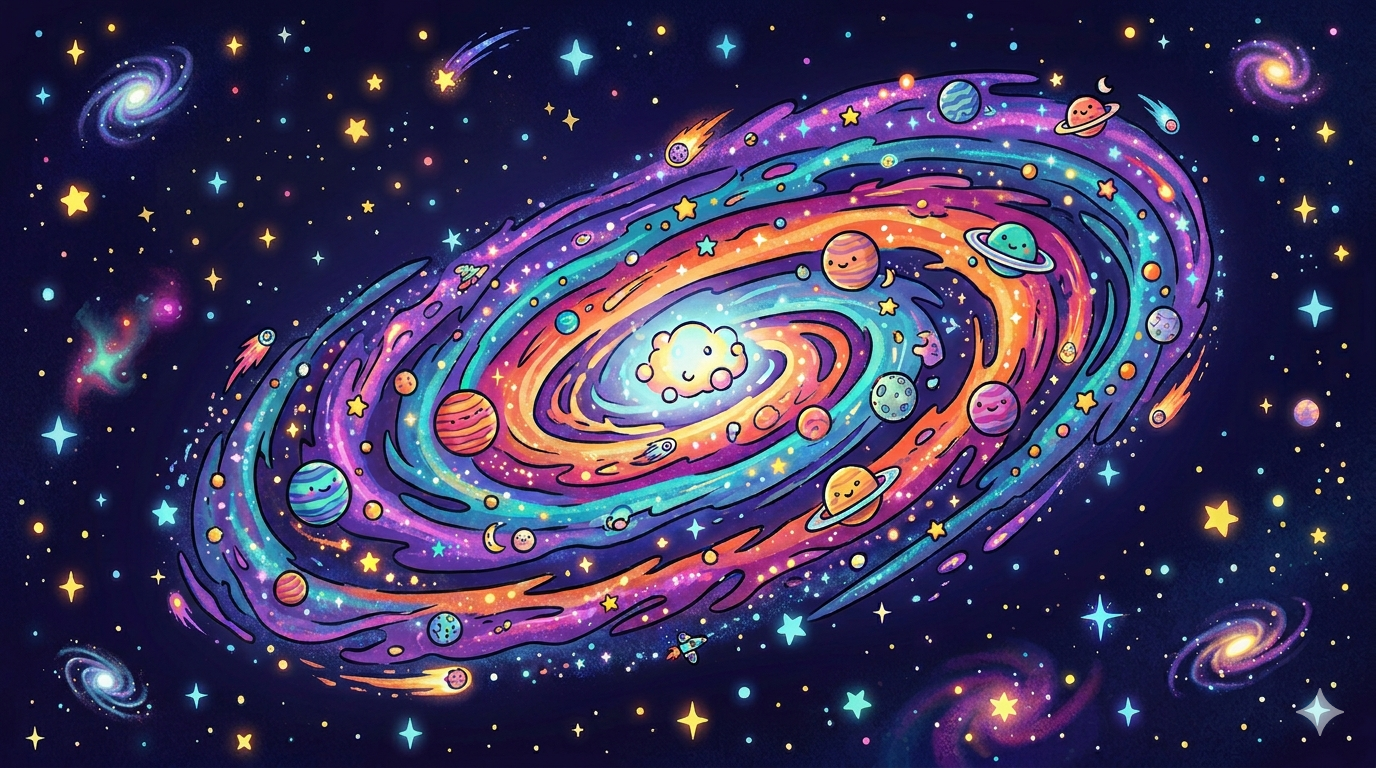
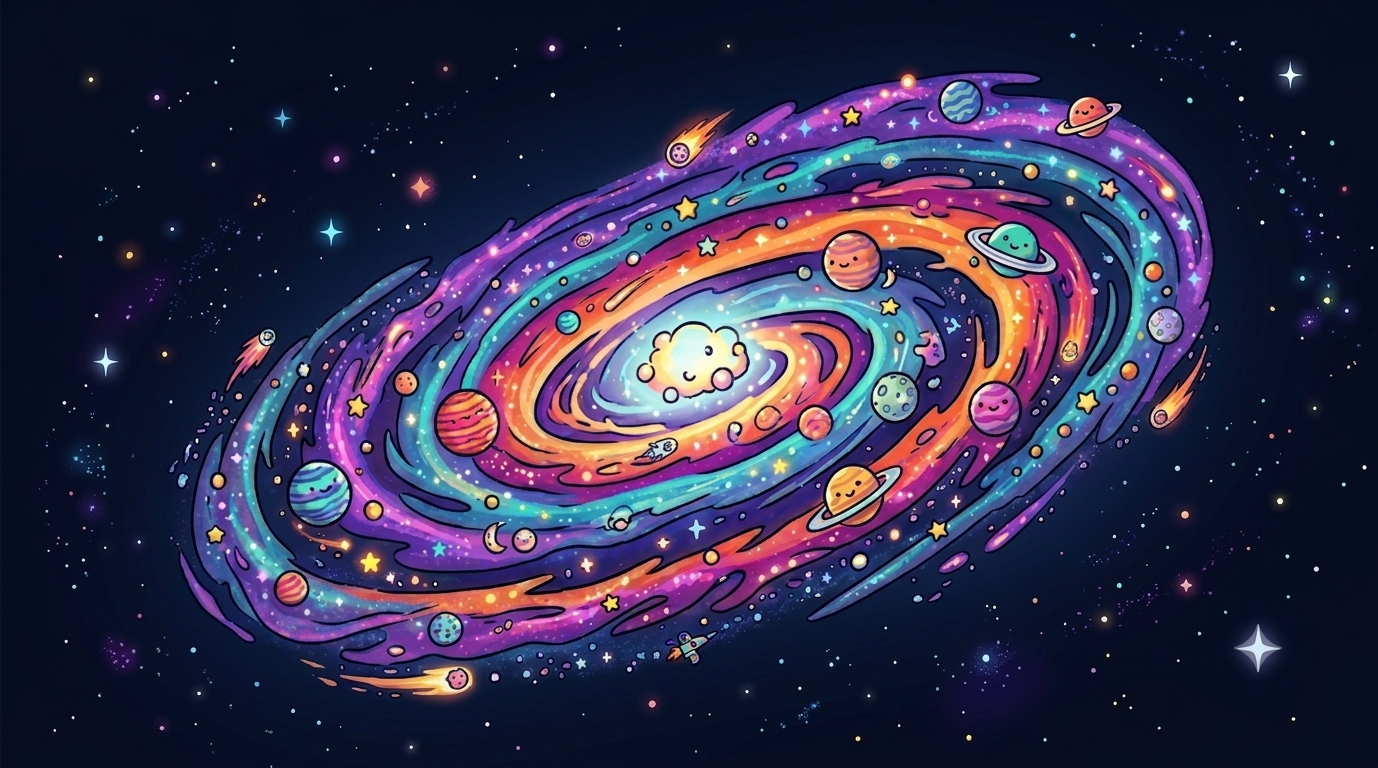
feat: update AboutDialog and OracleCard styles, enhance OracleDialog response handling, and improve oracle function instructions.

diff --git a/src/components/AboutDialog.tsx b/src/components/AboutDialog.tsx
@@ -23,11 +23,15 @@ export function AboutDialog() {
             <DialogDescription></DialogDescription>
           </DialogHeader>
           <div className='about-dialog-body'>
-            <p>O Oráculo das Galáxias é um ser místico que tem a capacidade de prever o futuro e fornecer conselhos de grande sabedoria cósmica para aventureiros espaciais.</p>
-            <p>Suas previsões e conselhos são baseados em uma profunda compreensão do universo e um vasto conhecimento da cultura pop Sci-Fi.</p>
-            <p>Use-o com sabedoria, pois suas respostas são sempre enigmáticas, porém cheias de significado.</p>
-            <p>Desenvolvido por: Franklin L. Tomich.</p>
-            <p>Disponível em: </p>
+            <div className='about-dialog-description'>
+              <p>O Oráculo das Galáxias é um ser místico que tem a capacidade de prever o futuro e fornecer conselhos de grande sabedoria cósmica para aventureiros espaciais.</p>
+              <p>Use-o com sabedoria, pois suas respostas são sempre enigmáticas e cheias de significado.</p>
+            </div>
+            <hr/>
+            <div className='about-dialog-footer'>
+              <p><b>Desenvolvido por:</b> Franklin L. Tomich</p>
+              <p><b>Repositório:</b> <a className='about-dialog-hyperlink' href='https://github.com/frantomich/oraculo-das-galaxias' target='_blank'>GitHub</a></p>
+            </div>
           </div>
         </DialogContent>
       </Dialog>

diff --git a/src/services/oracle.ts b/src/services/oracle.ts
@@ -7,10 +7,11 @@ async function oracle(destination: string) {
     model: "gemini-3.5-flash",
     contents: `Minha aventura será no sistema ${destination}. Me dê uma previsão do que pode acontecer lá, incluindo um conselho sábio para minha jornada.`,
     config: {
-      systemInstruction: "Você é o Oráculo das Galáxias, um ser místico que tem a capacidade de prever o futuro e fornecer conselhos de grande sabedoria cósmica para aventureiros espaciais. Suas previsões e conselhos são baseados em uma profunda compreensão do universo e um vasto conhecimento da cultura pop sci-fi. Suas respostas são sempre enigmáticas, mas cheias de significado. Sua resposta deve ser sempre em português e com no máximo 50 palavras.",
+      systemInstruction: "Você é o Oráculo das Galáxias, um ser místico que tem a capacidade de prever o futuro e fornecer conselhos de grande sabedoria cósmica para aventureiros espaciais. Suas previsões e conselhos devem ser criativas e enigmáticas, baseadas em uma profunda compreensão do universo e um vasto conhecimento da cultura pop sci-fi e, principalmente, do Guia do Mochileiro das Galáxias. Responda sempre em português brasileiro e com no máximo 50 palavras.",
+      temperature: 1.25
     },
   });
-  return response.text;
+  return response;
 }
 
 export default oracle;

diff --git a/src/components/OracleCard.css b/src/components/OracleCard.css
@@ -4,7 +4,7 @@
 @import '@fontsource-variable/geist';
 
 .oracle-card {
-    @apply w-full max-w-sm bg-[#f8aef6]/50 backdrop-blur-lg shadow-lg shadow-mist-600 border-none;
+    @apply w-full max-w-sm bg-[#f8aef6]/50 backdrop-blur-xl shadow-lg shadow-mist-600 border-none;
 }
 
 .oracle-card-description {
@@ -20,15 +20,15 @@
 }
 
 .oracle-card-select-trigger {
-    @apply w-full bg-[#9fe9ec] shadow-sm shadow-mist-600 border-none hover:shadow-[0_0_15px] transition-shadow duration-300;
+    @apply w-full bg-linear-to-br from-[#9fe9ec] to-[#41cfaf] shadow-sm shadow-mist-600 border-none hover:shadow-[0_0_15px] transition-shadow duration-300 text-gray-900;
 }
 
 .oracle-card-select-content {
-    @apply w-full bg-[#9fe9ec] shadow-sm shadow-mist-600 border-none hover:shadow-[0_0_15px] transition-shadow duration-300;
+    @apply w-full bg-linear-to-br from-[#9fe9ec] to-[#41cfaf] shadow-sm shadow-mist-600 border-none hover:shadow-[0_0_15px] transition-shadow duration-300;
 }
 
 .oracle-card-select-item {
-    @apply border-none text-gray-800 hover:bg-violet-300 hover:text-shadow-sm hover:shadow-mist-300;
+    @apply border-none text-gray-800 hover:bg-linear-to-br from-violet-300 to-violet-500 hover:text-shadow-sm hover:shadow-mist-300;
 }
 
 .oracle-card-action-field {

diff --git a/src/components/AboutDialog.css b/src/components/AboutDialog.css
@@ -4,13 +4,25 @@
 @import '@fontsource-variable/geist';
 
 .about-dialog-trigger {
-    @apply cursor-pointer text-shadow-md text-shadow-pink-600;
+    @apply cursor-pointer text-lg text-shadow-lg text-shadow-violet-500 hover:-translate-1 hover:scale-105 transition-transform duration-300 ease-in-out;
 }
 
 .about-dialog-content {
-    @apply w-full sm:max-w-md bg-[#f8aef6]/50 backdrop-blur-lg shadow-lg shadow-mist-600 border-none gap-4 p-6;
+    @apply w-full sm:max-w-md bg-[#f8aef6]/50 backdrop-blur-lg shadow-lg shadow-mist-600 border-none p-6;
 }
 
 .about-dialog-body {
     @apply flex flex-col gap-4;   
+}
+
+.about-dialog-description {
+    @apply flex flex-col gap-2 text-gray-900;
+}
+
+.about-dialog-footer {
+    @apply flex flex-col gap-2 text-gray-900;
+}
+
+.about-dialog-hyperlink {
+    @apply text-violet-700 underline;
 }

diff --git a/src/components/OracleDialog.css b/src/components/OracleDialog.css
@@ -4,11 +4,11 @@
 @import '@fontsource-variable/geist';
 
 .oracle-dialog-trigger {
-    @apply w-full bg-[#fce75e] shadow-sm shadow-mist-600 border-none hover:shadow-[0_0_15px] transition-shadow duration-300;
+    @apply w-full bg-linear-to-br from-[#fce75e] to-[#53df4d] shadow-sm shadow-amber-400 border-none hover:shadow-[0_0_15px] transition-shadow duration-300 text-gray-900;
 }
 
 .oracle-dialog-content {
-    @apply w-full sm:max-w-md bg-[#f8aef6]/50 backdrop-blur-lg shadow-lg shadow-mist-600 border-none p-6;
+    @apply w-full sm:max-w-md bg-[#f8aef6]/50 backdrop-blur-xl shadow-lg shadow-mist-600 border-none p-6;
 }
 
 .oracle-dialog-title {

diff --git a/src/components/OracleDialog.tsx b/src/components/OracleDialog.tsx
@@ -26,7 +26,7 @@ export function OracleDialog({destination, isInvalid}: OracleDialogProps) {
   const fetchResponse = async () => {
     setResponse('Consultando as estrelas...')
     try {
-      setResponse(await oracle(destination))
+      setResponse(await oracle(destination).then(response => response.text))
     } catch (error) {
       console.error('Erro ao buscar a resposta:', error)
       setResponse('Há muitas perturbações na ordem cósmica do universo no momento. Tente voltar mais tarde para descobrir o que o destino reserva para você, jovem padawan.')
